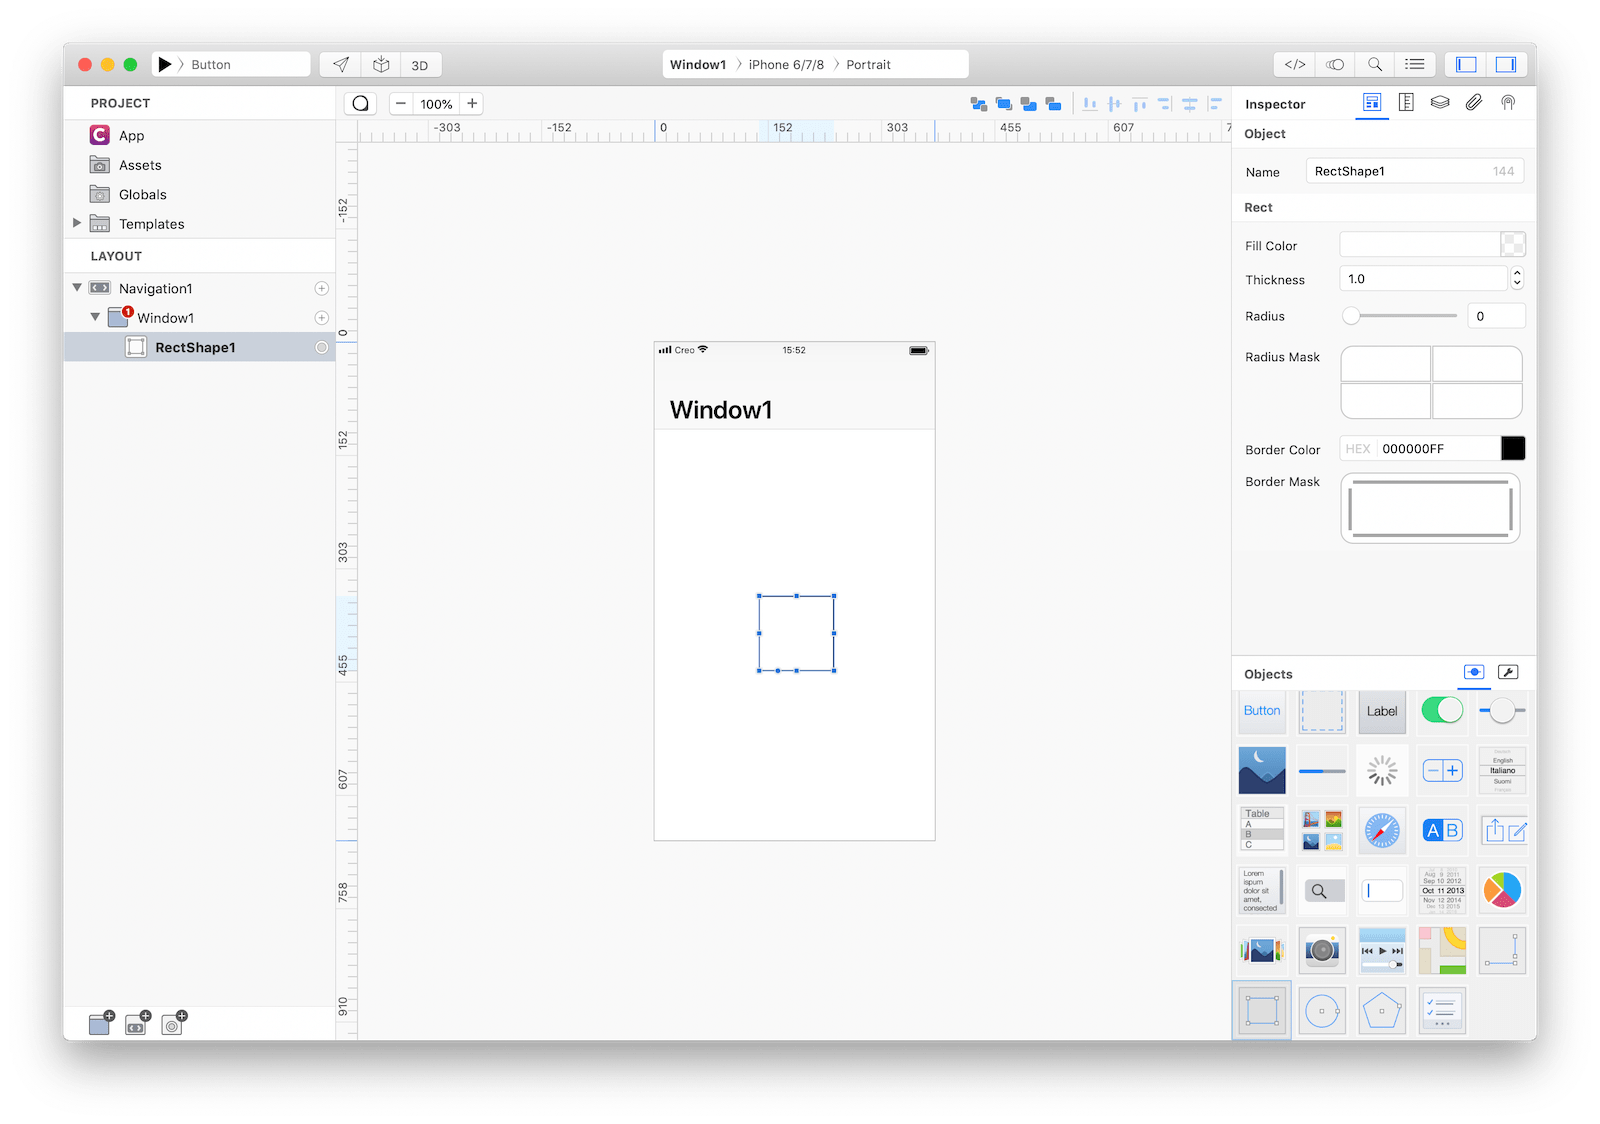
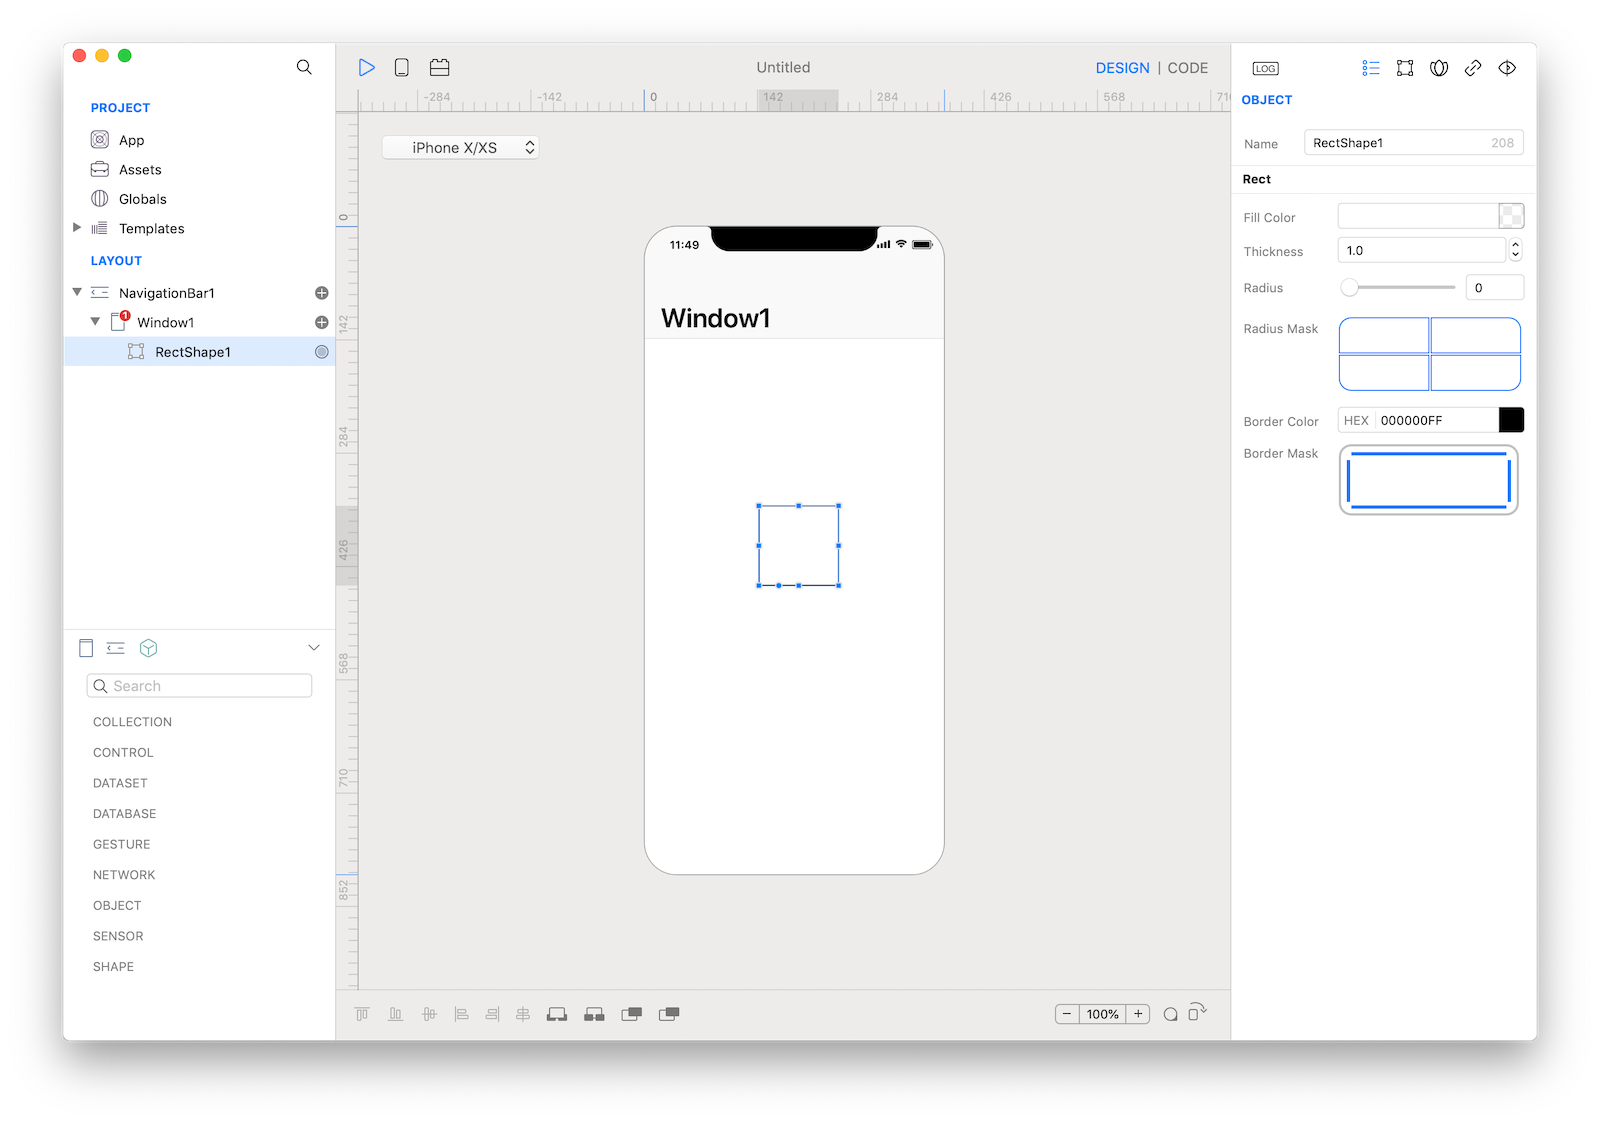
Updated RectShape for Creo2

diff --git a/docs/creo/RectShape.md b/docs/creo/RectShape.md
@@ -1,17 +1,17 @@
 Represents a rectangle shape (with optional rounded corners).
 
-![RectShape](../images/creo/rectshape1.png)
+![RectShape](../images/creo2/rectshape1.png)
 
 ### How to use
 1. Drop a `RectShape` control from the object panel to a `Window`
 2. Use the `RectShape Inspector` to customize its properties like `Fill Color`, `Thickness`, `Radius`, and `Border Color`
 
-![`RectShape` inspector](../images/creo/rectshape2.png)
+![`RectShape` inspector](../images/creo2/rectshape2.png)
 The inspector where the `RectShape` class can be configured.
 
 ### Example
 1. Drop a `Button` control from the object panel to a `Window`
-2. Open the `Code Editor` (cmd + 6)
+2. Open the `Code Editor`
 3. Select the `Action` item inside the `Events` area and write your custom code in the `Code Editor`
 ```
 RectShape1.fillColor = Color.red
